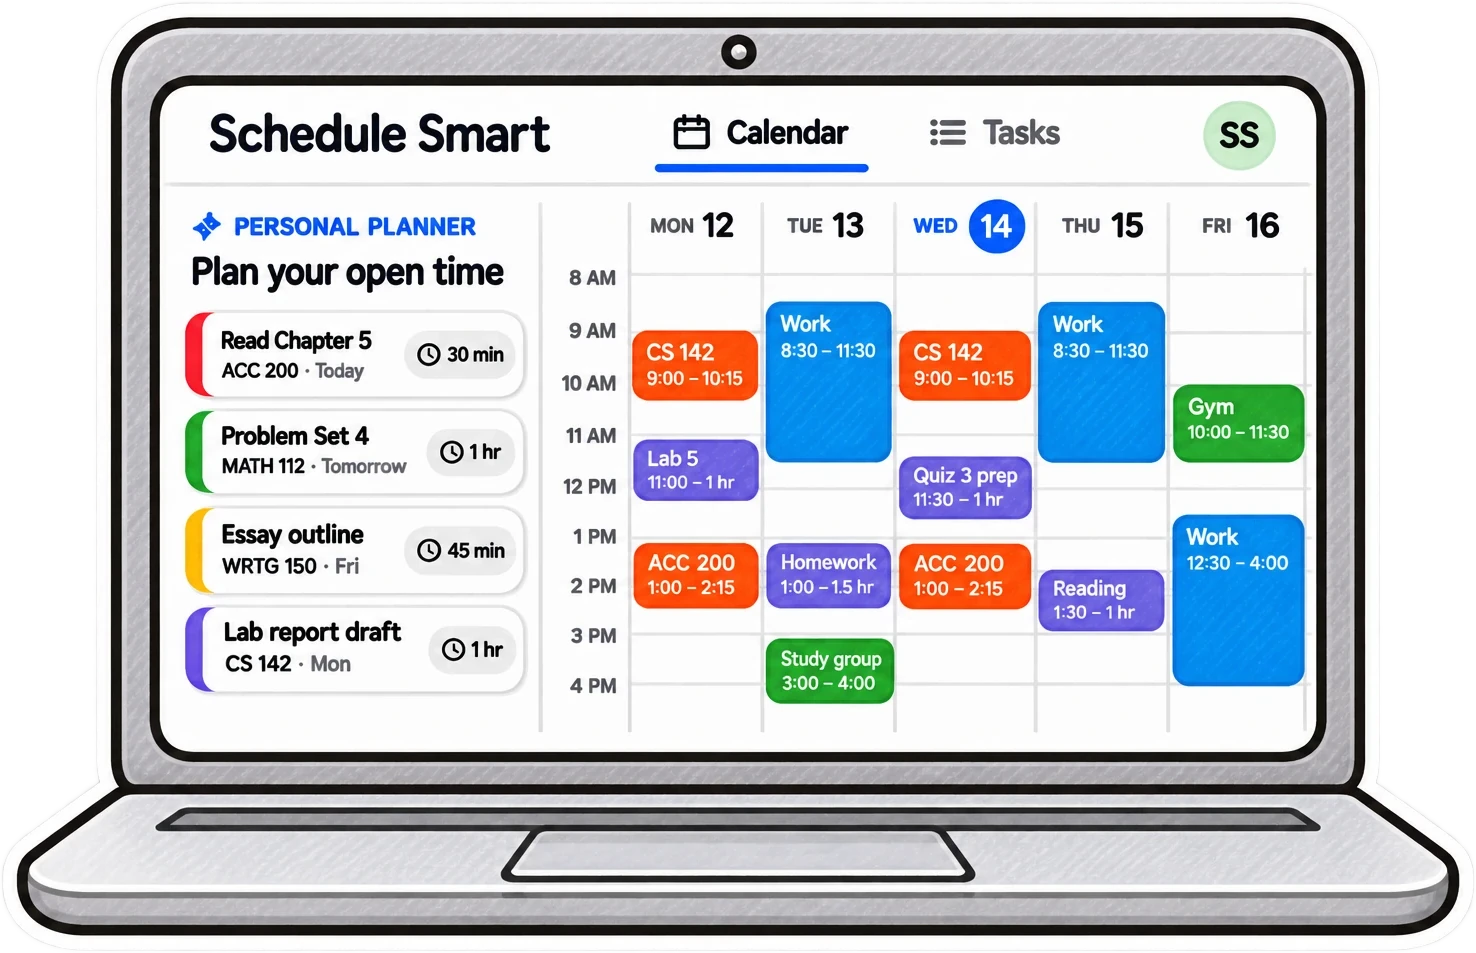
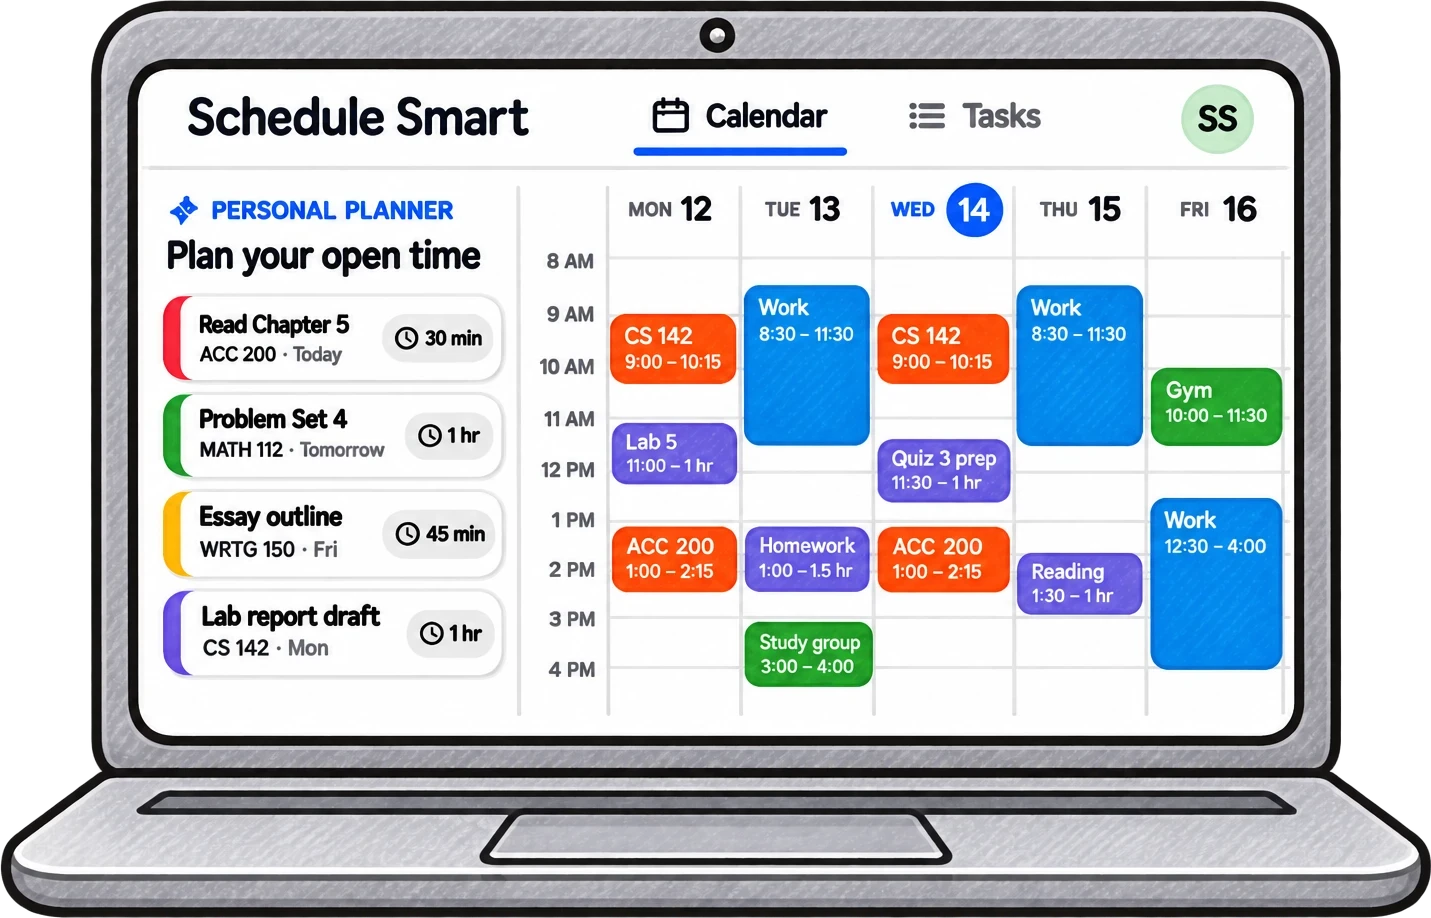
Home page: the laptop drawing without the white outline
Claude-Session: https://claude.ai/code/session_01YA9fmwFrL7JTbhXT7nahiB

diff --git a/src/components/Landing.tsx b/src/components/Landing.tsx
@@ -92,8 +92,8 @@ function Preview() {
         className="ss-devices-art"
         src="/landing/laptop.webp"
         alt="Schedule Smart on a laptop: a week of classes, work and the gym, with tasks from the planner dragged into the free time between them."
-        width={1476}
-        height={953}
+        width={1431}
+        height={918}
         decoding="async"
       />
     </figure>
